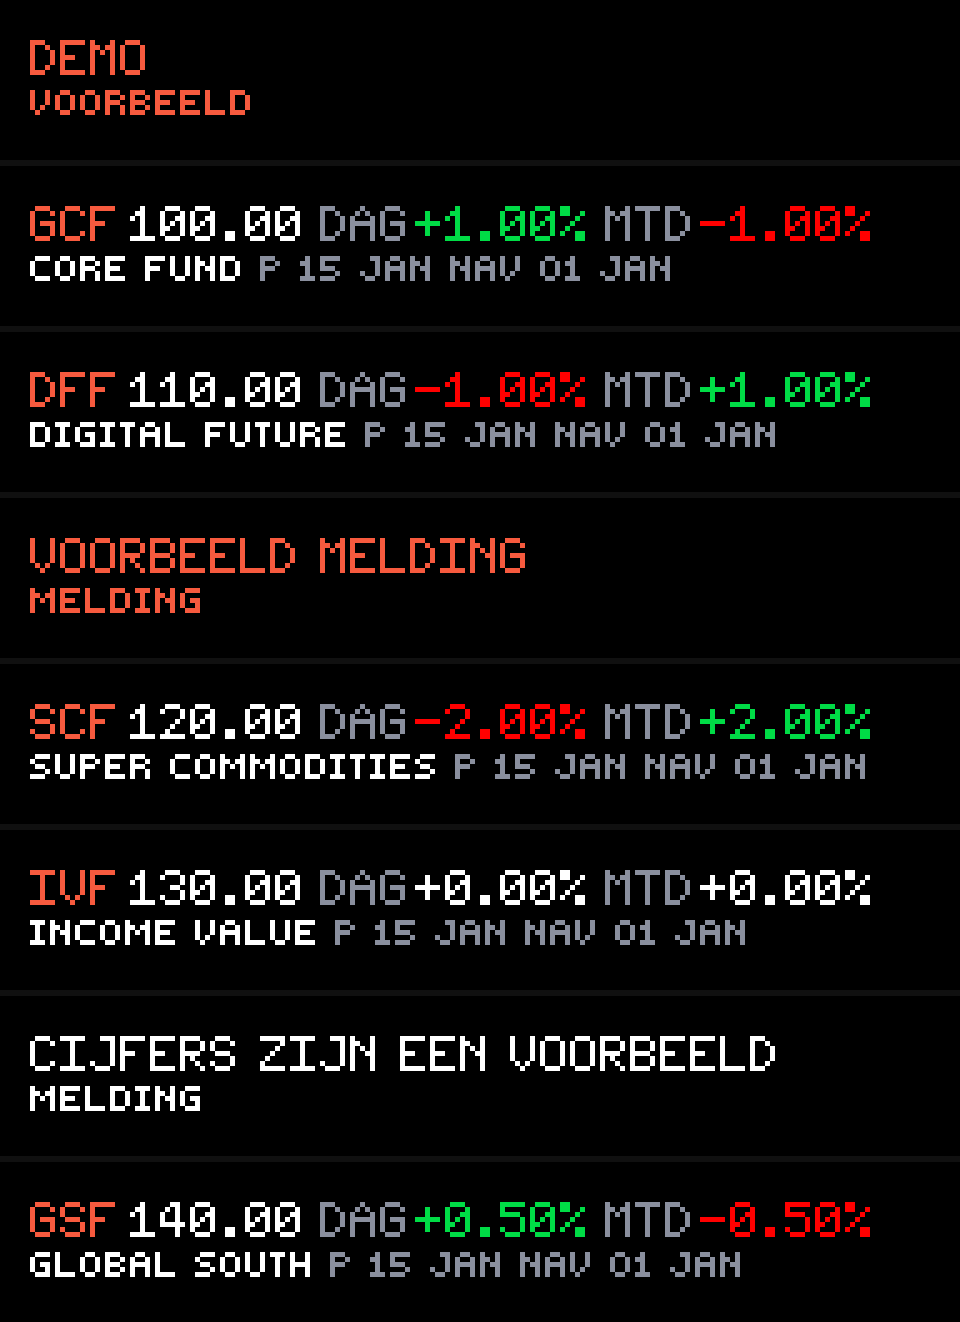
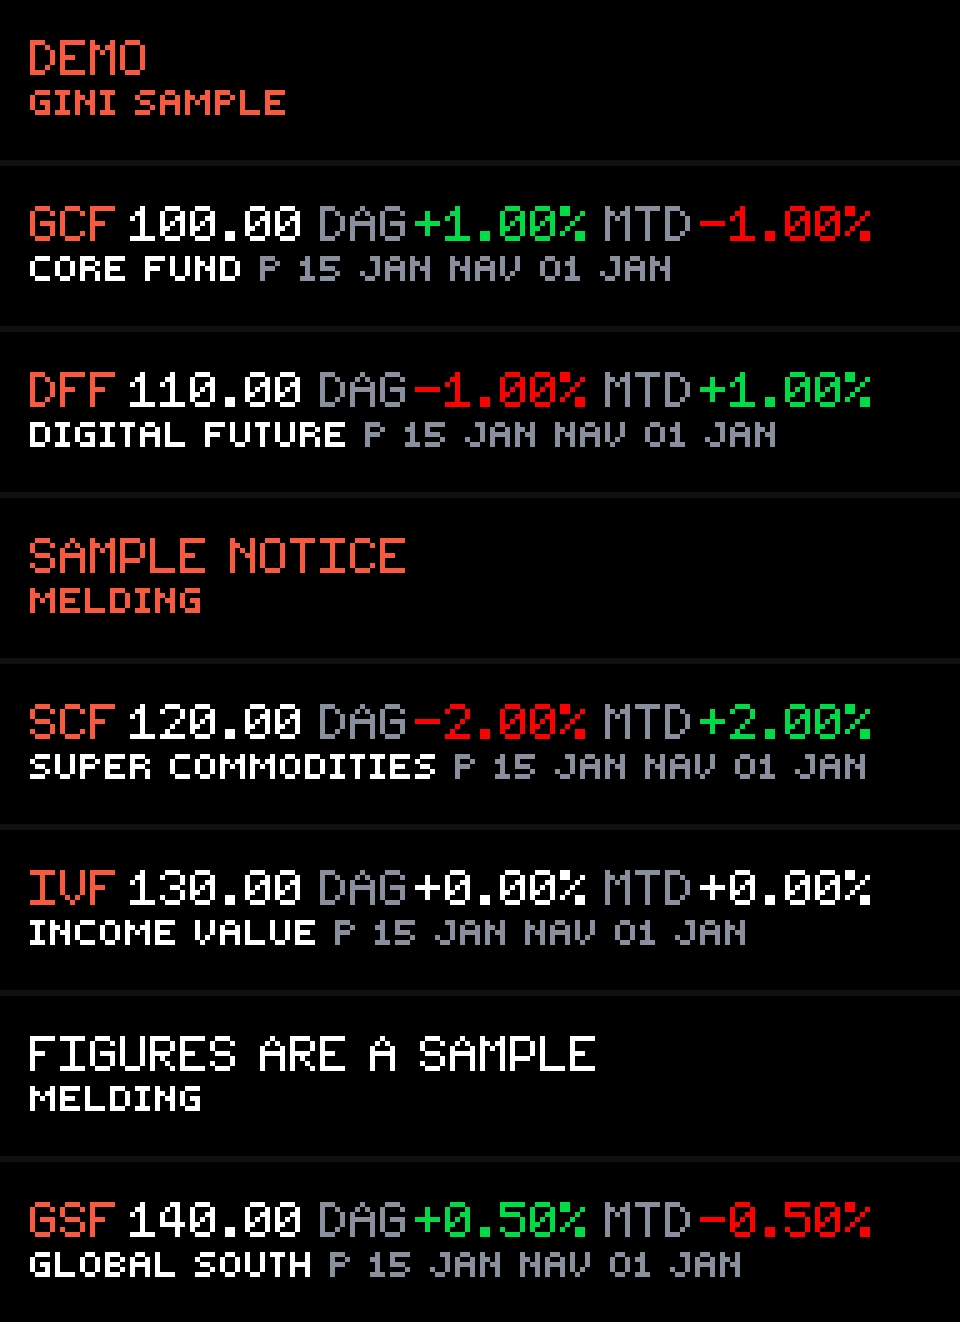
Finish the gini-fund-ticker checklist states
Label the public demo in English, add a positive empty screen, and keep error text inside the scroll safe zone. The screen code stays free text because refresh is 300.

diff --git a/apps/gini-fund-ticker/README.md b/apps/gini-fund-ticker/README.md
@@ -10,7 +10,7 @@ Ask a Gini Capital administrator for the read-only token.
 
 Paste it into **Toegangstoken**. That field is an api-key. Glance stores it encrypted and sends it only from Glance servers, in the header `X-Glance-Token`.
 
-Use a token made of letters and digits. With no token the panel shows a demo and does not call the server. The demo uses round sample figures, not live fund data.
+Use a token made of letters and digits. With no token the panel shows a demo and does not call the server. The first block reads DEMO / GINI SAMPLE. The notices read SAMPLE NOTICE and FIGURES ARE A SAMPLE. The figures are round samples, not live fund data.
 
 ## Funds
 
@@ -33,3 +33,11 @@ On the device, an underscore splits two settings before the app runs. A hyphen s
 Eight still pages. The Scroll panel moves those pages to the left. Each fund and each message stays inside one page.
 
 The fund code is orange. The day figure and the month to date figure are green for a plus, red for a minus, and white for zero. A message follows every two funds.
+
+## Screens
+
+- Demo. No token. Labelled DEMO. Sample figures only. No request.
+- Live. A token and a 200 response. The round opens with GINI / FONDS, then the funds and notices from that response.
+- Error. No access, too many requests, or no connection. Two lines: what happened, and what to do. Amber title.
+- Empty. A 200 response with no funds and no notices. Green ALL CLEAR, then NIETS TE MELDEN. That is not the error card.
+- No price yet. Funds came back with no figures and there is no notice. Amber NOG GEEN KOERS / WACHT OP DATA.
